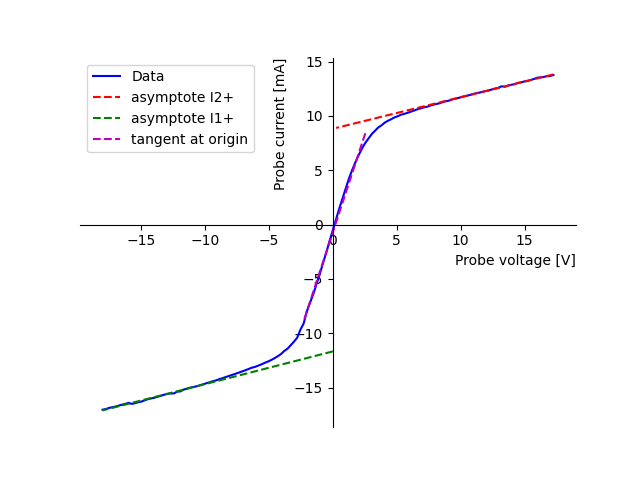
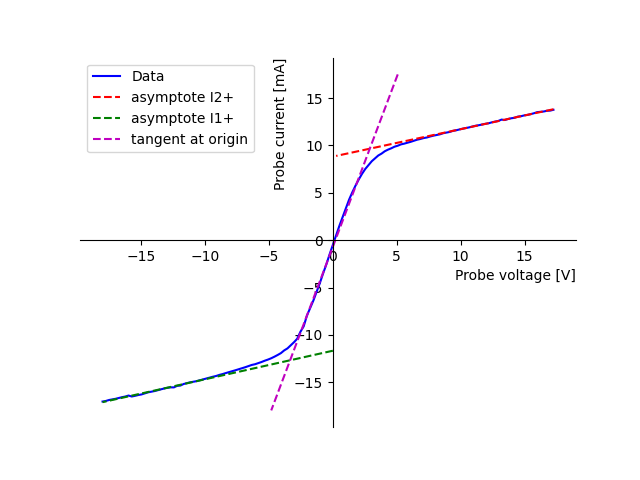
increased range of tangent at origin

diff --git a/analysis_part2.py b/analysis_part2.py
@@ -58,7 +58,7 @@ def fit_asymptotes(xdata,ydata,pressure,current,first_a_guess=1,first_b_guess=-2
     plt.ylabel('Probe current [mA]',loc='top')
     plt.plot(xdata[:zero_index], asymptote(xdata[:zero_index], *popt_0), 'r--', label='asymptote I2+')
     plt.plot(xdata[zero_index:], asymptote(xdata[zero_index:], *popt_1), 'g--', label='asymptote I1+')
-    plt.plot(xdata[start_index_2:stop_index_2], asymptote(xdata[start_index_2:stop_index_2], *popt_2), 'm--', label='tangent at origin')
+    plt.plot(xdata[start_index_2-10:stop_index_2+10], asymptote(xdata[start_index_2-10:stop_index_2+10], *popt_2), 'm--', label='tangent at origin')
 
     plt.legend()
 
